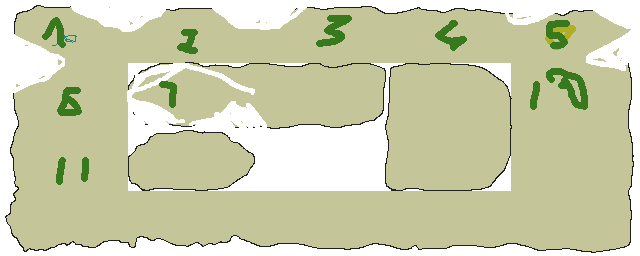
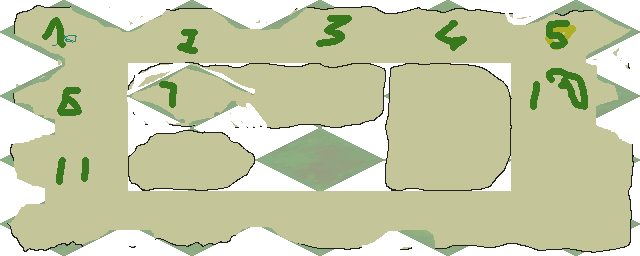
fruit sprite

diff --git a/src/Game_Manager.cpp b/src/Game_Manager.cpp
@@ -295,7 +295,7 @@ void Game_Manager::create_map(int map_width, int map_height)
             if (i < 5 && j < 5 && i> 0 && j > 0)
             {
                 m_grid(i, j).ressource_type = RSC_STONE;
-                m_grid(i, j).resource_location = 11;
+                m_grid(i, j).resource_location = 0;
 
             }
         }
@@ -307,10 +307,8 @@ void Game_Manager::create_map(int map_width, int map_height)
                     if (m_grid(i, j).ressource_type == RSC_STONE)
                     {
                         if (m_grid(i + 1, j).ressource_type == RSC_STONE
-                            && m_grid(i + 1, j + 1).ressource_type == RSC_STONE
                             && m_grid(i, j + 1).ressource_type == RSC_STONE
                             && m_grid(i - 1, j).ressource_type != RSC_STONE
-                            && m_grid(i - 1, j - 1).ressource_type != RSC_STONE
                             && m_grid(i, j - 1).ressource_type != RSC_STONE)
                         {
 
@@ -318,21 +316,35 @@ void Game_Manager::create_map(int map_width, int map_height)
 
                         }
                         if (m_grid(i + 1, j).ressource_type != RSC_STONE
-                            && m_grid(i + 1, j + 1).ressource_type != RSC_STONE
                             && m_grid(i, j + 1).ressource_type != RSC_STONE
                             && m_grid(i - 1, j).ressource_type == RSC_STONE
-                            && m_grid(i - 1, j - 1).ressource_type == RSC_STONE
                             && m_grid(i, j - 1).ressource_type == RSC_STONE)
                         {
 
                             m_grid(i, j).resource_location = 19;
 
                         }
-                        if (m_grid(i + 1, j).ressource_type == RSC_STONE
-                            && m_grid(i + 1, j + 1).ressource_type == RSC_STONE
+                        if (m_grid(i + 1, j).ressource_type != RSC_STONE
                             && m_grid(i, j + 1).ressource_type == RSC_STONE
                             && m_grid(i - 1, j).ressource_type == RSC_STONE
-                            && m_grid(i - 1, j - 1).ressource_type != RSC_STONE
+                            && m_grid(i, j - 1).ressource_type != RSC_STONE)
+                        {
+
+                            m_grid(i, j).resource_location = 4;
+
+                        }
+                        if (m_grid(i + 1, j).ressource_type == RSC_STONE
+                            && m_grid(i, j + 1).ressource_type != RSC_STONE
+                            && m_grid(i - 1, j).ressource_type != RSC_STONE
+                            && m_grid(i, j - 1).ressource_type == RSC_STONE)
+                        {
+
+                            m_grid(i, j).resource_location = 1;
+
+                        }
+                        if (m_grid(i + 1, j).ressource_type == RSC_STONE
+                            && m_grid(i, j + 1).ressource_type == RSC_STONE
+                            && m_grid(i - 1, j).ressource_type == RSC_STONE
                             && m_grid(i, j - 1).ressource_type != RSC_STONE)
                         {
 

diff --git a/src/Sprite_Creator.cpp b/src/Sprite_Creator.cpp
@@ -110,18 +110,20 @@ string Sprite_Creator::create_character( int sunlight_get, bool woman)
 
 string Sprite_Creator::create_resources( int resources_id)
 {
-    //TODO what is resources_sprites[0] supposed to contain???
-    resources_sprites.push_back(My_Sprite{ m_app, "ressources/generated/resources/tree_trunk", m_view1, 5 });
     My_Sprite whole(m_app, "ressources/empty_tile.png", m_view1);
 
     resources_sprites.push_back(My_Sprite{ m_app, "ressources/generated/resources/tree_trunk", m_view1, 5 });
-    resources_sprites[1].set_color(color_maker(1, 0, 0, false, true));
+    resources_sprites[0].set_color(color_maker(1, 0, 0, false, true));
 
     resources_sprites.push_back(My_Sprite{ m_app, "ressources/generated/resources/tree_leaves", m_view1, 5 });
-    resources_sprites[2].set_color(color_maker(1, 1, 1, true, false));
+    resources_sprites[1].set_color(color_maker(1, 1, 1, true, false));
 
+    resources_sprites.push_back(My_Sprite{ m_app, "ressources/generated/resources/fruit", m_view1, 5 });
+    resources_sprites[2].set_color(color_maker(2, 2, 2, true,  false));
+
+    whole.add_sprite(resources_sprites[0], "ressources/generated/resources/tree0.png", 640);
     whole.add_sprite(resources_sprites[1], "ressources/generated/resources/tree0.png", 640);
-	whole.add_sprite(resources_sprites[2], "ressources/generated/resources/tree0.png", 640);
+    whole.add_sprite(resources_sprites[2], "ressources/generated/resources/tree0.png", 640);
 
     srand(static_cast<unsigned int>(time(0)));
     flexibility =  static_cast<float>(rand() % 8 + 1);

diff --git a/src/Grid.cpp b/src/Grid.cpp
@@ -42,11 +42,13 @@ void Grid::loadFiles()
     for (int i = 0; i < 26; i++) {
         resource1.m_sprites.push_back(My_Sprite{ m_app, "ressources/resources/stone.png", m_view1, 128, 5, 1 });
     }
-    for (int i = 0; i <= 4; i++)
+
+    for (int j = 0; j < 5; j++)
     {
-        for (int j = 0; j <= 4; j++)
+        for (int i = 0; i <= 4; i++)
         {
-            resource1.m_sprites[i + 5 * j].set_text_rect(i * Tile::TILE_WIDTH, j * Tile::TILE_HEIGHT, Tile::TILE_WIDTH, Tile::TILE_HEIGHT);
+            resource1.m_sprites[i + (5 * j)].set_text_rect(i * Tile::TILE_WIDTH, j * Tile::TILE_HEIGHT, Tile::TILE_WIDTH, Tile::TILE_HEIGHT);
+            cout << "i " << i << " j" << j;
         }
     }
     m_resource.push_back(resource1);

diff --git a/src/Citizen.cpp b/src/Citizen.cpp
@@ -76,7 +76,6 @@ void Citizen::set_goal(int goal_x , int goal_y)
         //also to reset pass_through tiles
         reset_goal();
     }
-    m_sprite.add_color(255, 255, 255, 255);
 
     path_place = 0;
     m_goal_x = goal_x;
@@ -162,6 +161,7 @@ void Citizen::select()
 void Citizen::deselect()
 {
     m_is_selected = false;
+    m_sprite.add_color(255, 255, 255, 255);
 
 }
 
